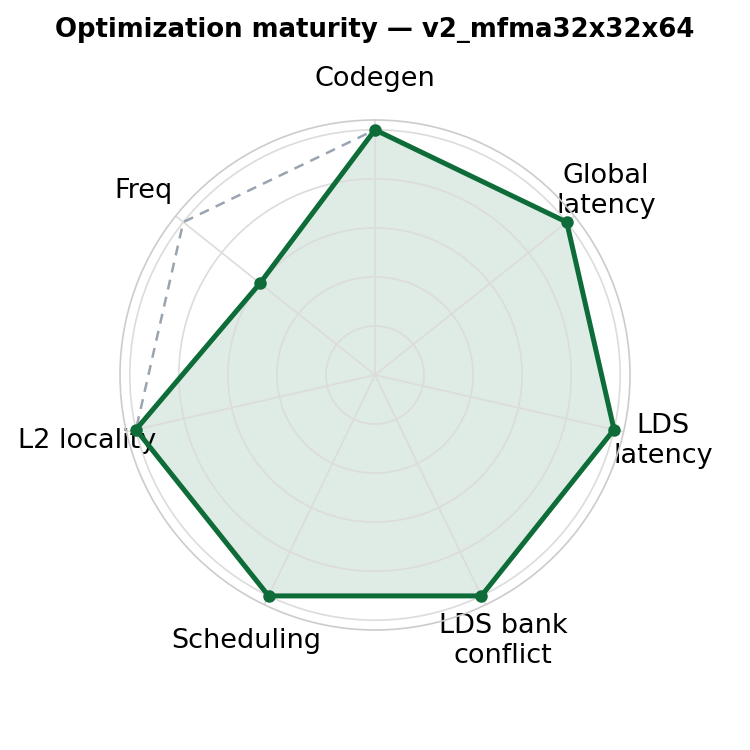
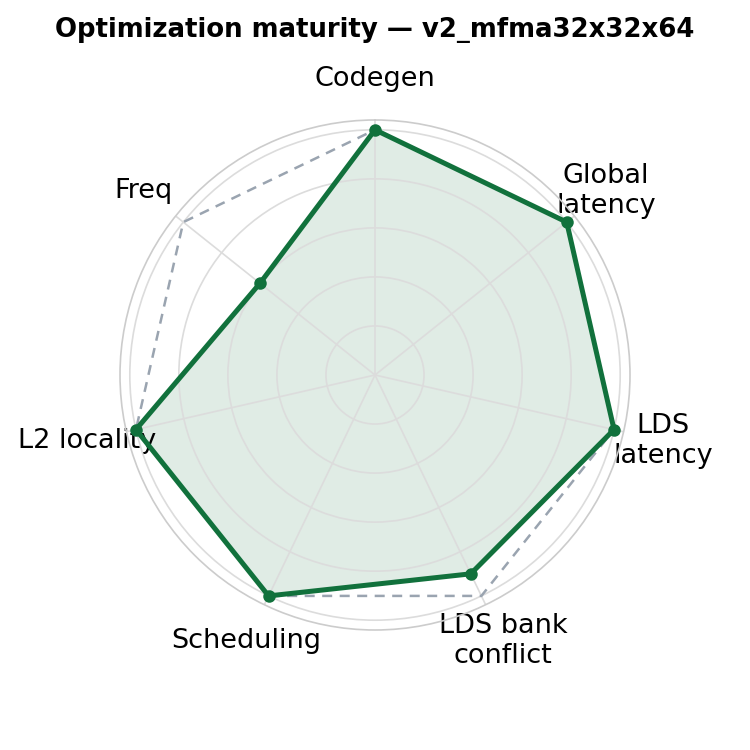
maturity radar: inter a4w4 bank conflict -> 4.5 for both v1 and v2
The MXFP4 scale-read bank conflict is inherent to both, so v1 and v2 score the
same on that axis (4.5). v1: 4 -> 4.5; v2: 5 -> 4.5.

Changed region(s): [[0.368, 0.5827, 0.828, 0.7973]]

diff --git a/scripts/plot_maturity_radar.py b/scripts/plot_maturity_radar.py
@@ -87,10 +87,11 @@ SCORES = {
     "inter_wave/a8w8": [5, 5, 5, 5, 5, 5],  # ping-pong BF8, ~99.7%
     # a4w4 8-wave series carries the 7th "Freq" axis (clock frequency):
     "inter_wave/a4w4/v0_sliceMN": [2, 4, 3, 4, 3, 5, 5],  # byte-shuffle (~57%); full clock
-    "inter_wave/a4w4/v1_combineBsc": [5, 5, 5, 4, 4, 5, 5],  # combined B-scale (~80%); full clock
+    "inter_wave/a4w4/v1_combineBsc": [5, 5, 5, 4.5, 4, 5, 5],  # combined B-scale (~80%)
     # v2: 32x32x64 lifts scheduling/occupancy (~98%) but the wider MFMA throttles
-    # the clock, so freq drops and end-to-end TFLOPS lands below v1.
-    "inter_wave/a4w4/v2_mfma32x32x64": [5, 5, 5, 5, 5, 5, 3],  # +sched, throttled clock
+    # the clock, so freq drops and end-to-end TFLOPS lands below v1. Bank conflict
+    # matches v1 (4.5) — the MXFP4 scale-read conflict is inherent to both.
+    "inter_wave/a4w4/v2_mfma32x32x64": [5, 5, 5, 4.5, 5, 5, 3],  # +sched, throttled clock
 }
 
 
